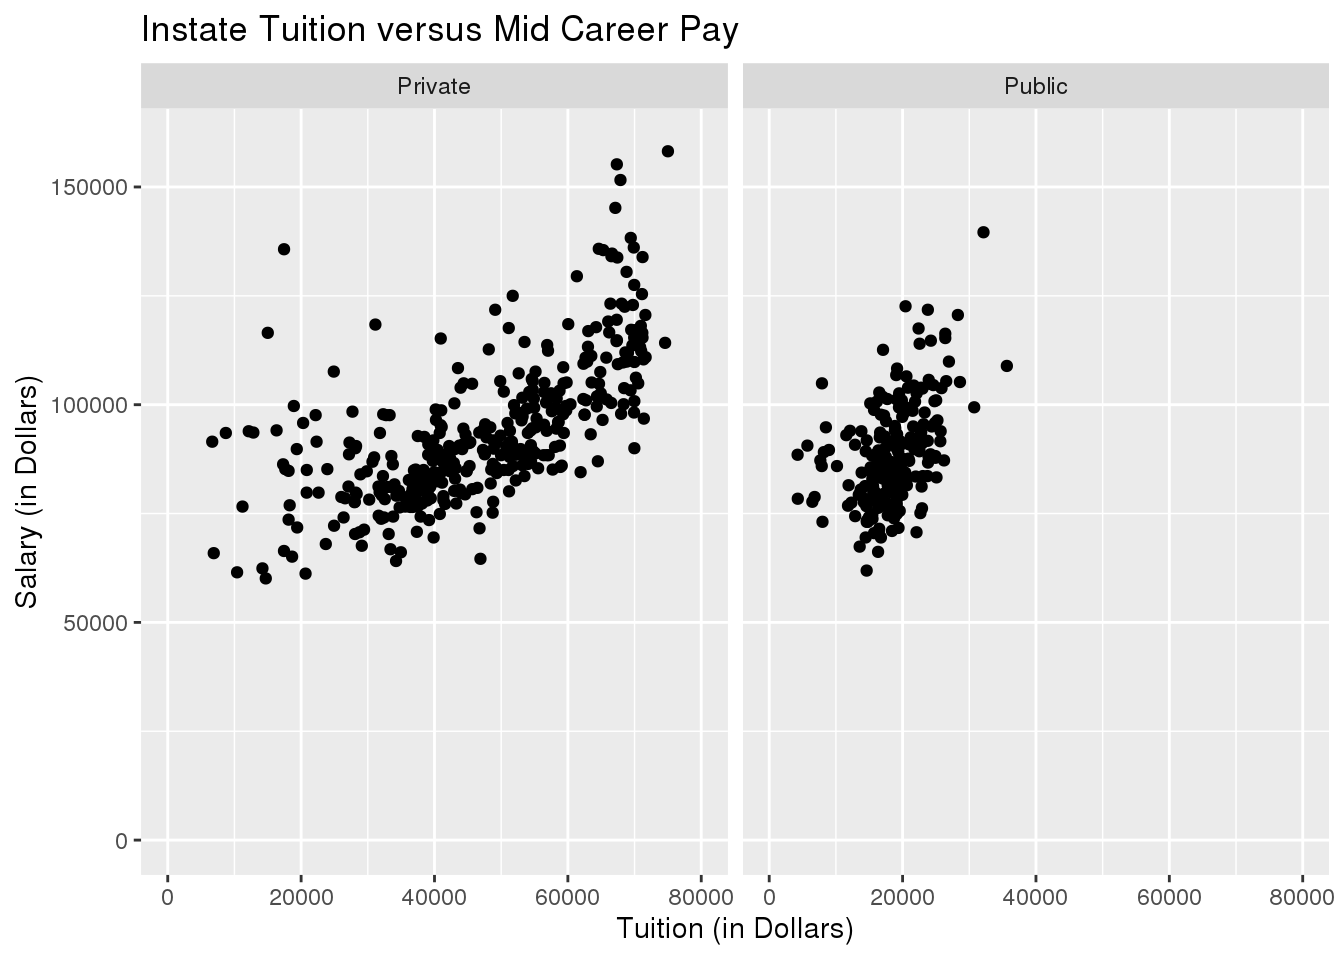
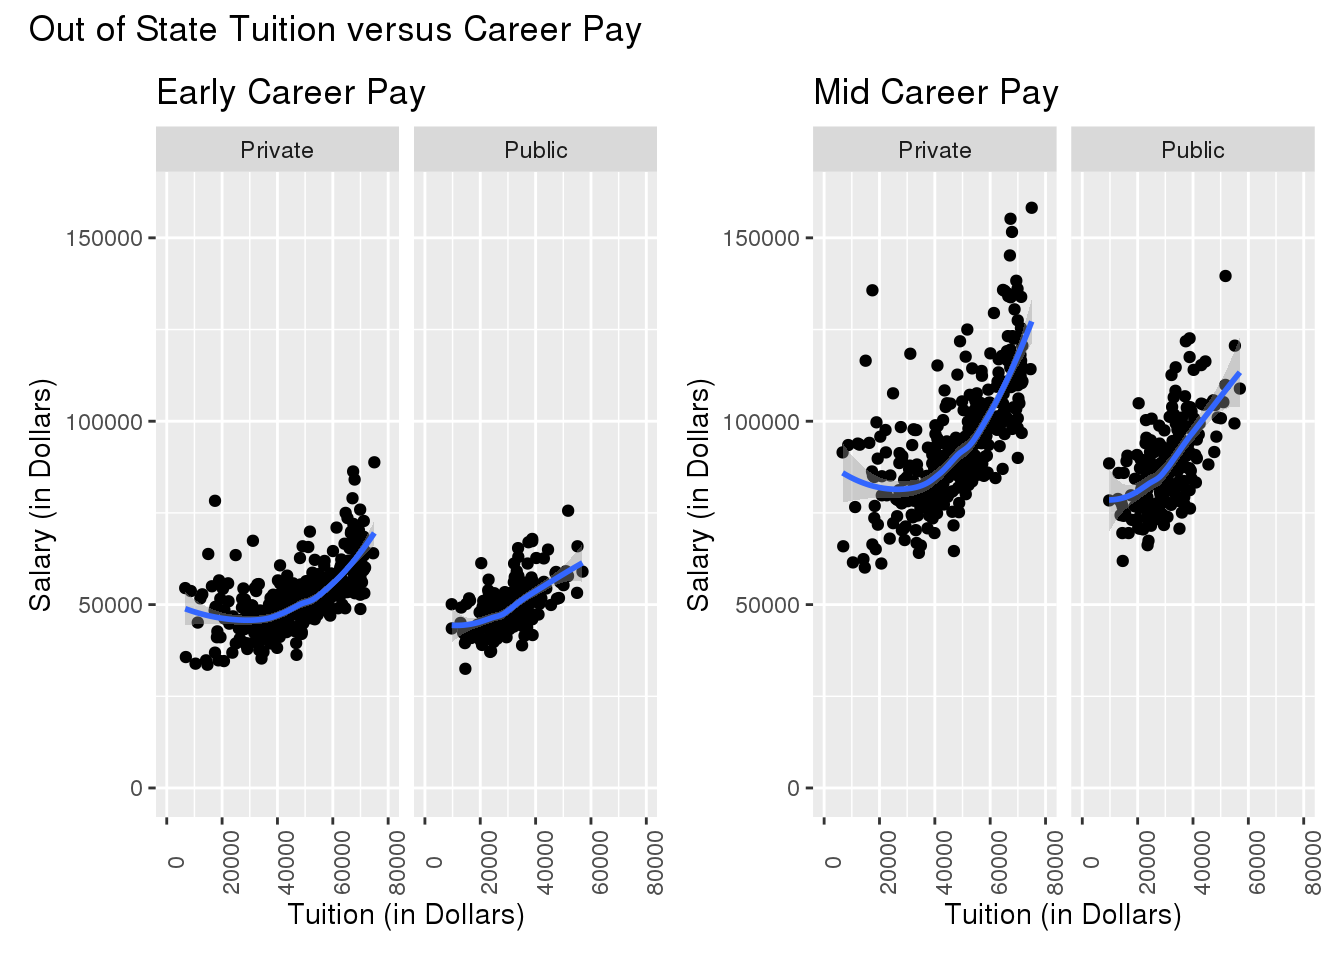
updated tuition post with recommended changes

diff --git a/content/post/2020-12-06-college-tuition-data-exploration/index.html b/content/post/2020-12-06-college-tuition-data-exploration/index.html
@@ -30,6 +30,7 @@ tags: []
 <pre class="r"><code>library(tidyverse)
 library(ggplot2)
 library(tidytuesdayR)
+library(patchwork)
 
 
 tuition_cost %&gt;%
@@ -62,54 +63,70 @@ tuition_cost %&gt;%
 <p>Is expensive tuition worth the investment? To find this out I will analyze the relationship between tuition and salary potential. To see the relationship I will use data visualization (like scatter plots) too see the general trend while also using additional visualizations to see the relationship for certain types of colleges.</p>
 <p>Because the salary potential data has less observations, I will use salary potential with a left join to tuition cost so that all there are not any ‘NA’ values. Because there are different values of tuition cost for in state versus out of state students I am going to do two analyses, 1 for each. I am choosing to do this because the value of tuition cost may change depending on whether or not the student receives in state or out of state tuition and I will also differentiate between early career pay and mid career pay.</p>
 <p>As examined in the exploratory data analysis section, the cost of colleges depends greatly on whether or not the student is in-state or out of state and whether or not the student attends a public or private college. Because these options do significantly impact the cost of tuition they subsequently have a large impact on determining whether the investment is worth it.</p>
-<pre class="r"><code> salary_potential %&gt;%
+<pre class="r"><code> p1 &lt;- salary_potential %&gt;%
   rename(state = state_name) %&gt;%
   left_join(tuition_cost, by = c(&quot;name&quot;, &quot;state&quot;)) %&gt;%
   filter(!is.na(type)) %&gt;%
   ggplot(aes(x = in_state_total, y = early_career_pay)) +
     geom_point() +
-    ggtitle(&quot;Instate Tuition Cost versus Early Salary Potential&quot;) +
+    ggtitle(&quot;Early Salary Potential&quot;) +
     labs(x = &quot;Tuition Cost (in Dollars)&quot;, y = &quot;Salary (in Dollars)&quot;) +
+    stat_smooth() +
     xlim(0, 80000) +
-    ylim(0, 160000) +
-    facet_wrap(~type)</code></pre>
-<p><img src="index_files/figure-html/unnamed-chunk-4-1.png" width="672" /></p>
-<pre class="r"><code>salary_potential %&gt;%
+    ylim(0, 160000) + 
+    theme(axis.text.x = element_text(angle = 90)) +
+    facet_wrap(~type)
+
+p2 &lt;- salary_potential %&gt;%
   rename(state = state_name) %&gt;%
   left_join(tuition_cost, by = c(&quot;name&quot;, &quot;state&quot;)) %&gt;%
   filter(!is.na(type)) %&gt;%
   ggplot(aes(x = in_state_total, y = mid_career_pay)) +
     geom_point() +
-    ggtitle(&quot;Instate Tuition versus Mid Career Pay&quot;) +
+    ggtitle(&quot;Mid Career Pay&quot;) +
     labs(x = &quot;Tuition (in Dollars)&quot;, y = &quot;Salary (in Dollars)&quot;) +
+    stat_smooth() +
     xlim(0, 80000) +
     ylim(0, 160000) +
-    facet_wrap(~type)</code></pre>
-<p><img src="index_files/figure-html/unnamed-chunk-4-2.png" width="672" /></p>
-<pre class="r"><code>salary_potential %&gt;%
+    theme(axis.text.x = element_text(angle = 90)) +
+    facet_wrap(~type)
+
+
+p3 &lt;- salary_potential %&gt;%
   rename(state = state_name) %&gt;%
   left_join(tuition_cost, by = c(&quot;name&quot;, &quot;state&quot;)) %&gt;%
   filter(!is.na(type)) %&gt;%
   ggplot(aes(x = out_of_state_total, y = early_career_pay)) +
     geom_point() +
-    ggtitle(&quot;Out of State Tuition versus Early Career Pay&quot;) +
+    ggtitle(&quot;Early Career Pay&quot;) +
     labs(x = &quot;Tuition (in Dollars)&quot;, y = &quot;Salary (in Dollars)&quot;) +
+    stat_smooth() +
     xlim(0, 80000) +
     ylim(0, 160000) +
-    facet_wrap(~type)</code></pre>
-<p><img src="index_files/figure-html/unnamed-chunk-4-3.png" width="672" /></p>
-<pre class="r"><code>salary_potential %&gt;%
+    theme(axis.text.x = element_text(angle = 90)) +
+    facet_wrap(~type)
+
+
+p4 &lt;- salary_potential %&gt;%
   rename(state = state_name) %&gt;%
   left_join(tuition_cost, by = c(&quot;name&quot;, &quot;state&quot;)) %&gt;%
   filter(!is.na(type)) %&gt;%
   ggplot(aes(x = out_of_state_total, y = mid_career_pay)) +
     geom_point() +
-    ggtitle(&quot;Out of State Tuition versus Mid Career Pay&quot;) +
+    ggtitle(&quot;Mid Career Pay&quot;) +
     labs(x = &quot;Tuition (in Dollars)&quot;, y = &quot;Salary (in Dollars)&quot;) +
+    stat_smooth() +
     xlim(0, 80000) + 
     ylim(0, 160000) +
-    facet_wrap(~type)</code></pre>
-<p><img src="index_files/figure-html/unnamed-chunk-4-4.png" width="672" /></p>
+    theme(axis.text.x = element_text(angle = 90)) +
+    facet_wrap(~type)
+
+p1 + p2 +
+  plot_annotation(title = &quot;In State Tuition versus Career Pay&quot;)</code></pre>
+<p><img src="index_files/figure-html/unnamed-chunk-4-1.png" width="672" /></p>
+<pre class="r"><code>p3 + p4 +
+  plot_annotation(title = &quot;Out of State Tuition versus Career Pay&quot;)</code></pre>
+<p><img src="index_files/figure-html/unnamed-chunk-4-2.png" width="672" /></p>
 <p>In conclusion, these visualizations show that expensive tuition may be worth the investment when looking at the results of salary potential. Consistently when the relationship between salary and tuition was evaluated the more expensive tuition lead to a higher salary. This result held true when broken down by in state or out of state, mid career or early career salary, and public versus private school.</p>
 </div>
 <div id="question-2" class="section level1">
@@ -131,13 +148,15 @@ tuition_cost %&gt;%
   filter(type == &quot;Private&quot; | type == &quot;Public&quot;) %&gt;%
   ggplot(aes(x = type, y = in_state_total)) +
   geom_boxplot() +
-  labs(x = &quot;School Type&quot;, y = &quot;Tuition&quot;, title = &quot;Total Cost per School Type for In State Students&quot;)</code></pre>
+  labs(x = &quot;School Type&quot;, y = &quot;Tuition&quot;, title = &quot;Total Cost per School Type for In State Students&quot;) +
+  geom_point(position = &quot;jitter&quot;, alpha = 0.2)</code></pre>
 <p><img src="index_files/figure-html/unnamed-chunk-5-1.png" width="672" /></p>
 <pre class="r"><code>tuition_cost %&gt;%
   filter(type == &quot;Private&quot; | type == &quot;Public&quot;) %&gt;%
   ggplot(aes(x = type, y = out_of_state_total)) +
   geom_boxplot() +
-  labs(x = &quot;School Type&quot;, y = &quot;Tuition&quot;, title = &quot;Total Cost per School Type for Out of State Students&quot;)</code></pre>
+  labs(x = &quot;School Type&quot;, y = &quot;Tuition&quot;, title = &quot;Total Cost per School Type for Out of State Students&quot;) +
+  geom_point(position = &quot;jitter&quot;, alpha = 0.2)</code></pre>
 <p><img src="index_files/figure-html/unnamed-chunk-5-2.png" width="672" /></p>
 <p>This analysis concludes that overall private colleges are more expensive than public colleges. This is supported by the group level statistics. At every facet, the private school statistics were more expensive than their public school counterparts. However an interesting trend occurs when looking at the box plots. The overlap shows that while the overall trend of private schools being more expensive holds true, there are cases in which certain public schools are more expensive than other private schools. For out of state schools, there are upper outliers in the public school distribution. One constraint in this analysis is the possibility of scholarships. The data is for the full cost of attendance and does not include any scholarships. Scholarships are awarded on an individual basis and therefore there could truly be more instances where private schools are less expensive than public schools when after scholarships are awarded.</p>
 </div>
@@ -150,20 +169,18 @@ tuition_cost %&gt;%
   inner_join(tuition_cost, by = c(&quot;name&quot;, &quot;state&quot;)) %&gt;%
   ggplot(aes(x = stem_percent, y = in_state_total)) +
   geom_point() +
-  geom_smooth(model = &quot;lm&quot;) +
+  geom_smooth(method = &quot;lm&quot;) +
   labs(x = &quot;Percentage of STEM degrees&quot;, y = &quot;Tuition&quot;, title = &quot;In State Tuition versus STEM Percent&quot;) +
   facet_wrap(~type)</code></pre>
-<pre><code>## Warning: Ignoring unknown parameters: model</code></pre>
 <p><img src="index_files/figure-html/unnamed-chunk-6-1.png" width="672" /></p>
 <pre class="r"><code>salary_potential %&gt;%
   rename(state = state_name) %&gt;%
   inner_join(tuition_cost, by = c(&quot;name&quot;, &quot;state&quot;)) %&gt;%
   ggplot(aes(x = stem_percent, y = out_of_state_total)) +
   geom_point() +
-  geom_smooth(model = &quot;lm&quot;) +
+  geom_smooth(method = &quot;lm&quot;) +
   labs(x = &quot;Percentage of STEM degrees&quot;, y = &quot;Tuition&quot;, title = &quot;Out of State Tuition versus STEM Percent&quot;) +
   facet_wrap(~type)</code></pre>
-<pre><code>## Warning: Ignoring unknown parameters: model</code></pre>
 <p><img src="index_files/figure-html/unnamed-chunk-6-2.png" width="672" /></p>
 <p>To further analyze this relationship I sectioned the data into 10 groups based on the STEM percents (the first group held colleges that had a STEM percent of 0-10, the next 10-20, and so on). Based on the comparisons between groups it is clear to see that up to a point, the higher STEM percentages means higher tuition. For public colleges once the STEM percentage reaches 30, the out of state tuition cost for colleges with higher STEM percentages are not higher and once the STEM percentage reaches 60, the in state tuition cost for colleges with higher STEM percentages are not higher. For private schools once the STEM percentage reaches seventy the tuition costs for colleges with higher STEM percentages actually decreases. While these numbers come from statistical analysis the trend line shows that while the slope line (the relation between tuition and percentage of STEM degrees) is very steep at the start, it does flatten out. While there are exceptions early in the data this is most likely due to the fact that there are colleges that are very expensive and specialize in non STEM degrees (such as art schools).</p>
 <div id="conclusion" class="section level2">

diff --git a/public/2020/12/06/college-tuition-data-exploration/index.html b/public/2020/12/06/college-tuition-data-exploration/index.html
@@ -98,6 +98,7 @@
 <pre class="r"><code>library(tidyverse)
 library(ggplot2)
 library(tidytuesdayR)
+library(patchwork)
 
 
 tuition_cost %&gt;%
@@ -130,54 +131,70 @@ tuition_cost %&gt;%
 <p>Is expensive tuition worth the investment? To find this out I will analyze the relationship between tuition and salary potential. To see the relationship I will use data visualization (like scatter plots) too see the general trend while also using additional visualizations to see the relationship for certain types of colleges.</p>
 <p>Because the salary potential data has less observations, I will use salary potential with a left join to tuition cost so that all there are not any ‘NA’ values. Because there are different values of tuition cost for in state versus out of state students I am going to do two analyses, 1 for each. I am choosing to do this because the value of tuition cost may change depending on whether or not the student receives in state or out of state tuition and I will also differentiate between early career pay and mid career pay.</p>
 <p>As examined in the exploratory data analysis section, the cost of colleges depends greatly on whether or not the student is in-state or out of state and whether or not the student attends a public or private college. Because these options do significantly impact the cost of tuition they subsequently have a large impact on determining whether the investment is worth it.</p>
-<pre class="r"><code> salary_potential %&gt;%
+<pre class="r"><code> p1 &lt;- salary_potential %&gt;%
   rename(state = state_name) %&gt;%
   left_join(tuition_cost, by = c(&quot;name&quot;, &quot;state&quot;)) %&gt;%
   filter(!is.na(type)) %&gt;%
   ggplot(aes(x = in_state_total, y = early_career_pay)) +
     geom_point() +
-    ggtitle(&quot;Instate Tuition Cost versus Early Salary Potential&quot;) +
+    ggtitle(&quot;Early Salary Potential&quot;) +
     labs(x = &quot;Tuition Cost (in Dollars)&quot;, y = &quot;Salary (in Dollars)&quot;) +
+    stat_smooth() +
     xlim(0, 80000) +
-    ylim(0, 160000) +
-    facet_wrap(~type)</code></pre>
-<p><img src="index_files/figure-html/unnamed-chunk-4-1.png" width="672" /></p>
-<pre class="r"><code>salary_potential %&gt;%
+    ylim(0, 160000) + 
+    theme(axis.text.x = element_text(angle = 90)) +
+    facet_wrap(~type)
+
+p2 &lt;- salary_potential %&gt;%
   rename(state = state_name) %&gt;%
   left_join(tuition_cost, by = c(&quot;name&quot;, &quot;state&quot;)) %&gt;%
   filter(!is.na(type)) %&gt;%
   ggplot(aes(x = in_state_total, y = mid_career_pay)) +
     geom_point() +
-    ggtitle(&quot;Instate Tuition versus Mid Career Pay&quot;) +
+    ggtitle(&quot;Mid Career Pay&quot;) +
     labs(x = &quot;Tuition (in Dollars)&quot;, y = &quot;Salary (in Dollars)&quot;) +
+    stat_smooth() +
     xlim(0, 80000) +
     ylim(0, 160000) +
-    facet_wrap(~type)</code></pre>
-<p><img src="index_files/figure-html/unnamed-chunk-4-2.png" width="672" /></p>
-<pre class="r"><code>salary_potential %&gt;%
+    theme(axis.text.x = element_text(angle = 90)) +
+    facet_wrap(~type)
+
+
+p3 &lt;- salary_potential %&gt;%
   rename(state = state_name) %&gt;%
   left_join(tuition_cost, by = c(&quot;name&quot;, &quot;state&quot;)) %&gt;%
   filter(!is.na(type)) %&gt;%
   ggplot(aes(x = out_of_state_total, y = early_career_pay)) +
     geom_point() +
-    ggtitle(&quot;Out of State Tuition versus Early Career Pay&quot;) +
+    ggtitle(&quot;Early Career Pay&quot;) +
     labs(x = &quot;Tuition (in Dollars)&quot;, y = &quot;Salary (in Dollars)&quot;) +
+    stat_smooth() +
     xlim(0, 80000) +
     ylim(0, 160000) +
-    facet_wrap(~type)</code></pre>
-<p><img src="index_files/figure-html/unnamed-chunk-4-3.png" width="672" /></p>
-<pre class="r"><code>salary_potential %&gt;%
+    theme(axis.text.x = element_text(angle = 90)) +
+    facet_wrap(~type)
+
+
+p4 &lt;- salary_potential %&gt;%
   rename(state = state_name) %&gt;%
   left_join(tuition_cost, by = c(&quot;name&quot;, &quot;state&quot;)) %&gt;%
   filter(!is.na(type)) %&gt;%
   ggplot(aes(x = out_of_state_total, y = mid_career_pay)) +
     geom_point() +
-    ggtitle(&quot;Out of State Tuition versus Mid Career Pay&quot;) +
+    ggtitle(&quot;Mid Career Pay&quot;) +
     labs(x = &quot;Tuition (in Dollars)&quot;, y = &quot;Salary (in Dollars)&quot;) +
+    stat_smooth() +
     xlim(0, 80000) + 
     ylim(0, 160000) +
-    facet_wrap(~type)</code></pre>
-<p><img src="index_files/figure-html/unnamed-chunk-4-4.png" width="672" /></p>
+    theme(axis.text.x = element_text(angle = 90)) +
+    facet_wrap(~type)
+
+p1 + p2 +
+  plot_annotation(title = &quot;In State Tuition versus Career Pay&quot;)</code></pre>
+<p><img src="index_files/figure-html/unnamed-chunk-4-1.png" width="672" /></p>
+<pre class="r"><code>p3 + p4 +
+  plot_annotation(title = &quot;Out of State Tuition versus Career Pay&quot;)</code></pre>
+<p><img src="index_files/figure-html/unnamed-chunk-4-2.png" width="672" /></p>
 <p>In conclusion, these visualizations show that expensive tuition may be worth the investment when looking at the results of salary potential. Consistently when the relationship between salary and tuition was evaluated the more expensive tuition lead to a higher salary. This result held true when broken down by in state or out of state, mid career or early career salary, and public versus private school.</p>
 </div>
 <div id="question-2" class="section level1">
@@ -199,13 +216,15 @@ tuition_cost %&gt;%
   filter(type == &quot;Private&quot; | type == &quot;Public&quot;) %&gt;%
   ggplot(aes(x = type, y = in_state_total)) +
   geom_boxplot() +
-  labs(x = &quot;School Type&quot;, y = &quot;Tuition&quot;, title = &quot;Total Cost per School Type for In State Students&quot;)</code></pre>
+  labs(x = &quot;School Type&quot;, y = &quot;Tuition&quot;, title = &quot;Total Cost per School Type for In State Students&quot;) +
+  geom_point(position = &quot;jitter&quot;, alpha = 0.2)</code></pre>
 <p><img src="index_files/figure-html/unnamed-chunk-5-1.png" width="672" /></p>
 <pre class="r"><code>tuition_cost %&gt;%
   filter(type == &quot;Private&quot; | type == &quot;Public&quot;) %&gt;%
   ggplot(aes(x = type, y = out_of_state_total)) +
   geom_boxplot() +
-  labs(x = &quot;School Type&quot;, y = &quot;Tuition&quot;, title = &quot;Total Cost per School Type for Out of State Students&quot;)</code></pre>
+  labs(x = &quot;School Type&quot;, y = &quot;Tuition&quot;, title = &quot;Total Cost per School Type for Out of State Students&quot;) +
+  geom_point(position = &quot;jitter&quot;, alpha = 0.2)</code></pre>
 <p><img src="index_files/figure-html/unnamed-chunk-5-2.png" width="672" /></p>
 <p>This analysis concludes that overall private colleges are more expensive than public colleges. This is supported by the group level statistics. At every facet, the private school statistics were more expensive than their public school counterparts. However an interesting trend occurs when looking at the box plots. The overlap shows that while the overall trend of private schools being more expensive holds true, there are cases in which certain public schools are more expensive than other private schools. For out of state schools, there are upper outliers in the public school distribution. One constraint in this analysis is the possibility of scholarships. The data is for the full cost of attendance and does not include any scholarships. Scholarships are awarded on an individual basis and therefore there could truly be more instances where private schools are less expensive than public schools when after scholarships are awarded.</p>
 </div>
@@ -218,20 +237,18 @@ tuition_cost %&gt;%
   inner_join(tuition_cost, by = c(&quot;name&quot;, &quot;state&quot;)) %&gt;%
   ggplot(aes(x = stem_percent, y = in_state_total)) +
   geom_point() +
-  geom_smooth(model = &quot;lm&quot;) +
+  geom_smooth(method = &quot;lm&quot;) +
   labs(x = &quot;Percentage of STEM degrees&quot;, y = &quot;Tuition&quot;, title = &quot;In State Tuition versus STEM Percent&quot;) +
   facet_wrap(~type)</code></pre>
-<pre><code>## Warning: Ignoring unknown parameters: model</code></pre>
 <p><img src="index_files/figure-html/unnamed-chunk-6-1.png" width="672" /></p>
 <pre class="r"><code>salary_potential %&gt;%
   rename(state = state_name) %&gt;%
   inner_join(tuition_cost, by = c(&quot;name&quot;, &quot;state&quot;)) %&gt;%
   ggplot(aes(x = stem_percent, y = out_of_state_total)) +
   geom_point() +
-  geom_smooth(model = &quot;lm&quot;) +
+  geom_smooth(method = &quot;lm&quot;) +
   labs(x = &quot;Percentage of STEM degrees&quot;, y = &quot;Tuition&quot;, title = &quot;Out of State Tuition versus STEM Percent&quot;) +
   facet_wrap(~type)</code></pre>
-<pre><code>## Warning: Ignoring unknown parameters: model</code></pre>
 <p><img src="index_files/figure-html/unnamed-chunk-6-2.png" width="672" /></p>
 <p>To further analyze this relationship I sectioned the data into 10 groups based on the STEM percents (the first group held colleges that had a STEM percent of 0-10, the next 10-20, and so on). Based on the comparisons between groups it is clear to see that up to a point, the higher STEM percentages means higher tuition. For public colleges once the STEM percentage reaches 30, the out of state tuition cost for colleges with higher STEM percentages are not higher and once the STEM percentage reaches 60, the in state tuition cost for colleges with higher STEM percentages are not higher. For private schools once the STEM percentage reaches seventy the tuition costs for colleges with higher STEM percentages actually decreases. While these numbers come from statistical analysis the trend line shows that while the slope line (the relation between tuition and percentage of STEM degrees) is very steep at the start, it does flatten out. While there are exceptions early in the data this is most likely due to the fact that there are colleges that are very expensive and specialize in non STEM degrees (such as art schools).</p>
 <div id="conclusion" class="section level2">
